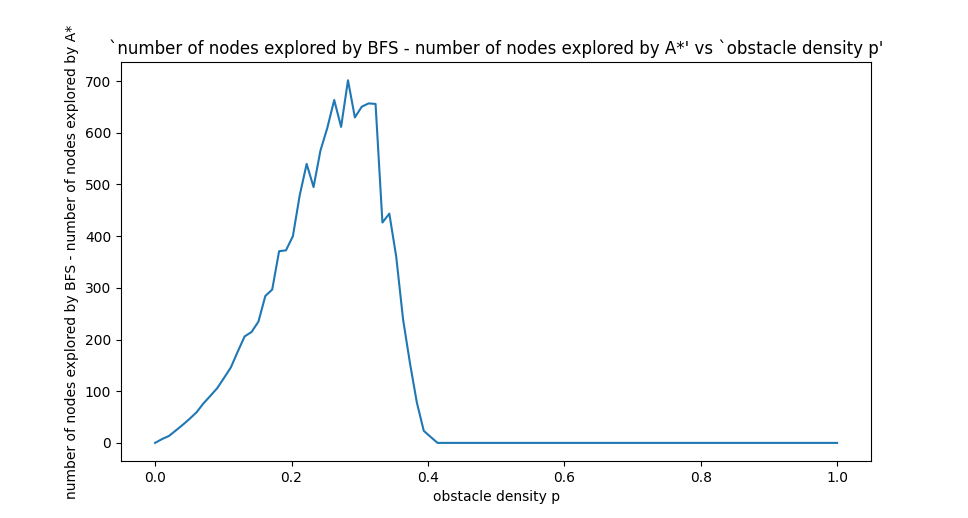
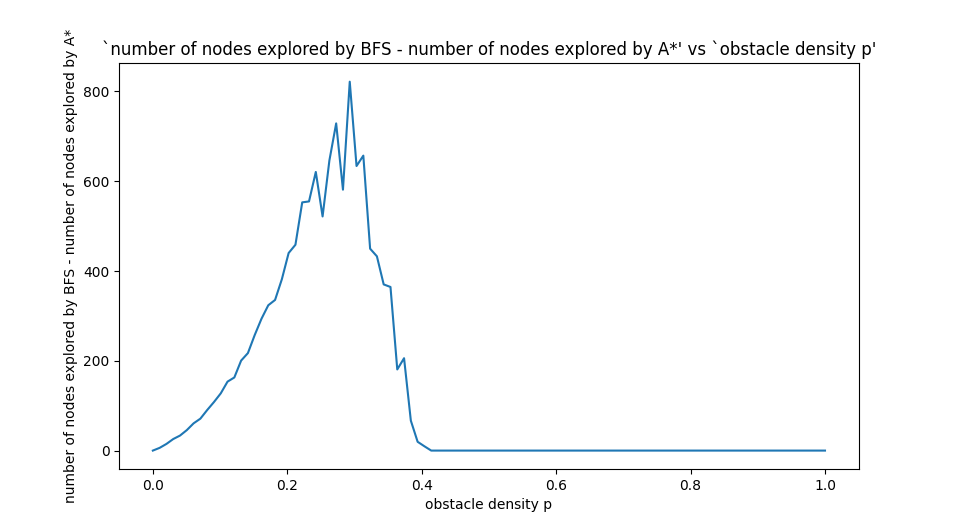
problem 3

diff --git a/maze - Mustafa.py b/maze - Mustafa.py
@@ -150,8 +150,8 @@ def astar(maze, start, goal):
 ##################################################################################
 
 ########################## Test all three searches using one maze #################
-# dim = 10
-# p = 0.1
+# dim = 30
+# p = 0.3
 # maze = make_maze(dim,p)
 # print_maze(maze)
 # print("\n\nDepth first search: ")
@@ -223,7 +223,7 @@ def astar(maze, start, goal):
 #                 tree[neighbour] = current
                 
 
-#     return None
+#     return count
 
 # def astar_counter(maze, start, goal):
 #     fringe = [] 
@@ -247,7 +247,7 @@ def astar(maze, start, goal):
 #                 heapq.heappush(fringe, (priority, neighbour))                
 #                 tree[neighbour] = current
 
-#     return None
+#     return count
 
 # dim = 100
 # dataX = []
@@ -258,10 +258,9 @@ def astar(maze, start, goal):
 #     difference = 0
 #     for run in range(runs):
 #         maze = make_maze(dim, density)
-#         bfs_nodes_explored = bfs_counter(maze, (0,0), (dim-1,dim-1))       
-#         if bfs_nodes_explored != None:
-#             astar_nodes_explored = astar_counter(maze, (0,0), (dim-1,dim-1))
-#             difference += bfs_nodes_explored - astar_nodes_explored
+#         bfs_nodes_explored = bfs_counter(maze, (0,0), (dim-1,dim-1))  
+#         astar_nodes_explored = astar_counter(maze, (0,0), (dim-1,dim-1))
+#         difference += bfs_nodes_explored - astar_nodes_explored
         
 #     dataX.append(density)
 #     dataY.append(difference/runs)
@@ -327,7 +326,6 @@ def advance_fire_one_step(maze, q=0.3):
 # maze[1][1] = 'X'
 # maze = advance_fire_one_step(maze, 1.0)
 # print_maze(maze)
-
 
 def get_nonfire_neighbours(maze, current):
     x = current[0]
